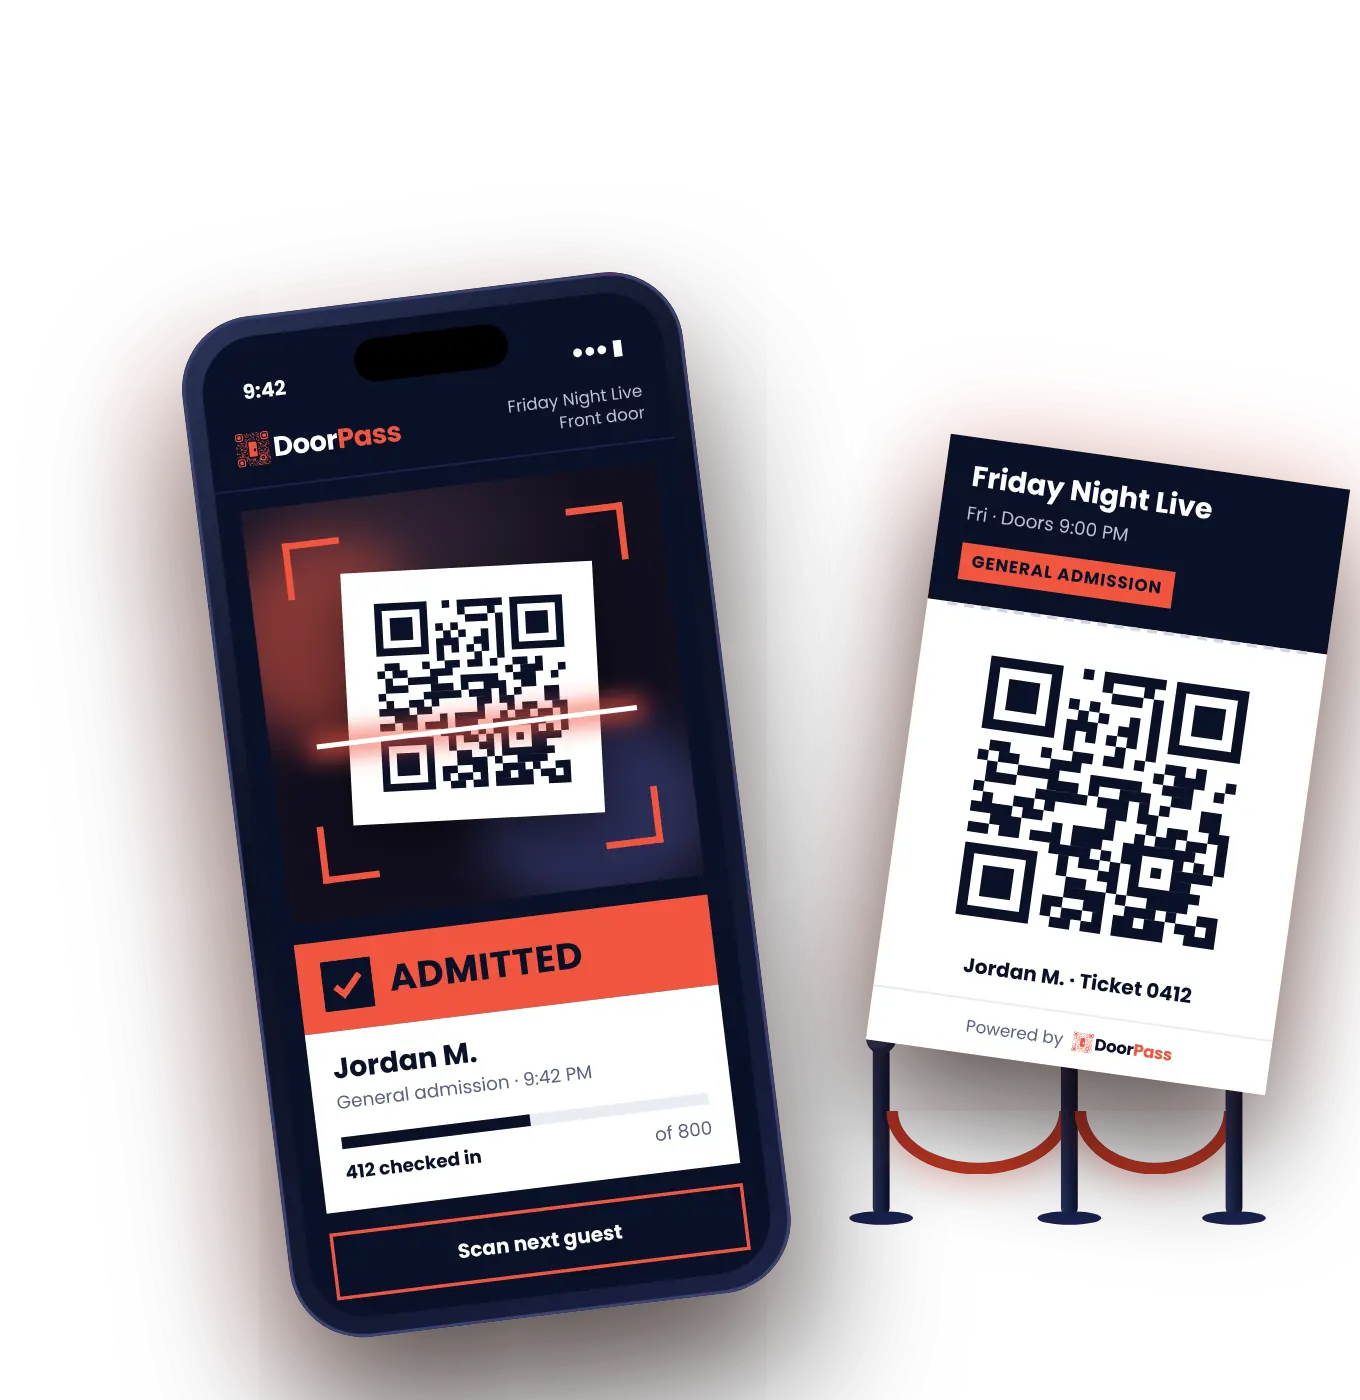
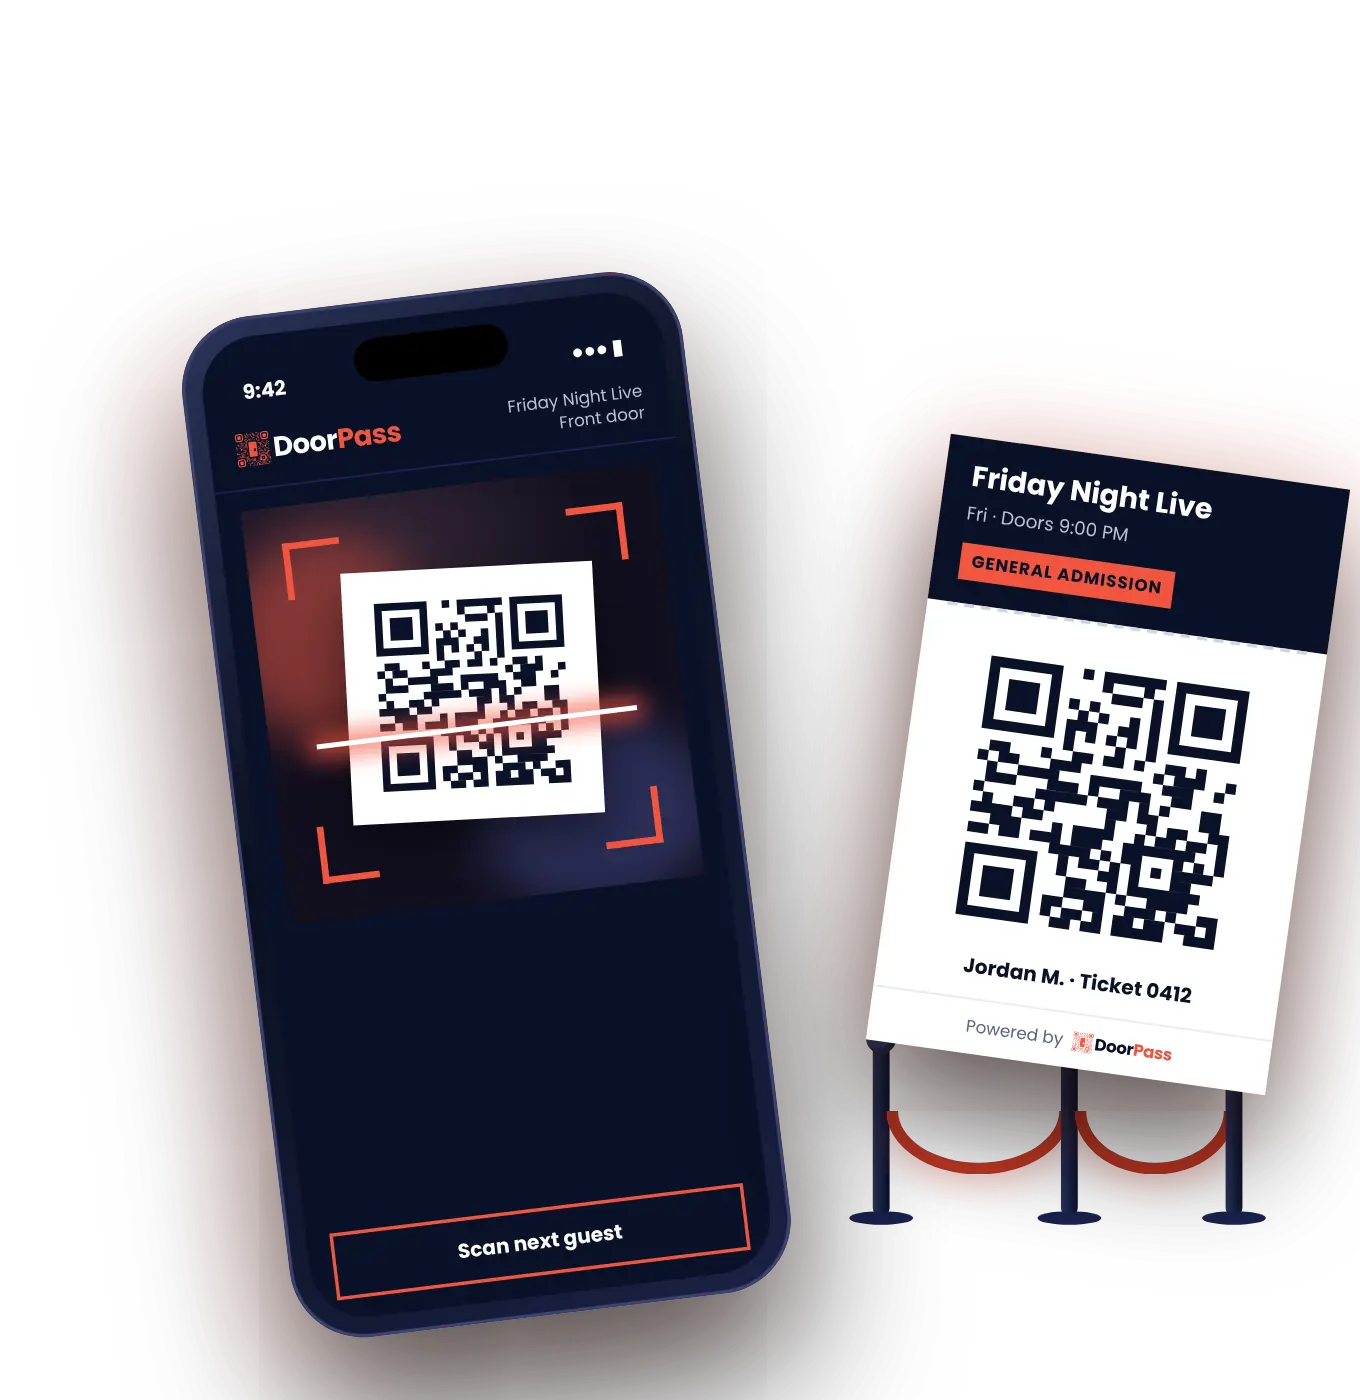
Hero: phone cycles Admitted / Check ID / Denied (#4)
- Scan result is now a live layer over the phone (removed from the
  front image), drawn in scene pixels so it lines up at any size
- Green Admitted, yellow Check ID, red Denied with check, ! and x icons:
  the DoorPass scanner's own status colors, short pop on each change
- Reduced motion shows Admitted only
- Brand test: scanner status colors declared

Claude-Session: https://claude.ai/code/session_01M7Asd6NsJf8wV6D7F685uX

Changed region(s): [[0.2162, 0.6143, 0.5559, 0.8907]]

diff --git a/public/css/styles.css b/public/css/styles.css
@@ -152,7 +152,29 @@ ul, ol { margin: 0; padding: 0; list-style: none; }
 @keyframes jump { 0% { transform: translateY(2px); animation-timing-function: cubic-bezier(.15, .6, .4, 1); } 42% { transform: translateY(-15px); animation-timing-function: cubic-bezier(.6, 0, .85, .4); } 84% { transform: translateY(2px); animation-timing-function: ease-out; } 92% { transform: translateY(3px); } 100% { transform: translateY(2px); } }
 @keyframes nod { from { transform: rotate(-4deg); } to { transform: rotate(6deg); } }
 @keyframes led { from { opacity: 1; } to { opacity: .3; } }
-@media (prefers-reduced-motion: reduce) { .fx { display: none; } .venue * { animation: none !important; } }
+/* Live scan result on the hero phone: Admitted (green), Check ID (yellow), Denied (red), the DoorPass scanner's own
+   status colors, one every 3.5 s. Laid out in scene pixels (--u = 1 px of the 1440 x 800 scene). */
+.scan-ui { container-type: inline-size; }
+.su-art { --u: .069444cqw; position: absolute; left: 0; top: 0; width: calc(1440 * var(--u)); height: calc(800 * var(--u)); transform: scale(.84); transform-origin: calc(1440 * var(--u)) calc(496 * var(--u)); }
+.su-phone { position: absolute; left: calc(770 * var(--u)); top: calc(150 * var(--u)); width: calc(300 * var(--u)); height: calc(612 * var(--u)); transform: rotate(-7deg); }
+.su-screen { position: absolute; left: calc(12 * var(--u)); top: calc(12 * var(--u)); width: calc(276 * var(--u)); height: calc(588 * var(--u)); }
+.su-state { position: absolute; left: calc(14 * var(--u)); top: calc(363 * var(--u)); width: calc(248 * var(--u)); opacity: 0; animation: su-cycle 10.5s infinite; }
+.su-check { animation-delay: 3.5s; } .su-deny { animation-delay: 7s; }
+.su-band { display: flex; align-items: center; gap: calc(10 * var(--u)); height: calc(54 * var(--u)); padding: 0 calc(14 * var(--u)); color: var(--white); }
+.su-ok .su-band { background: #16A34A; } .su-check .su-band { background: #F59E0B; color: var(--navy); } .su-deny .su-band { background: #DC2626; }
+.su-icon { display: grid; place-items: center; width: calc(30 * var(--u)); height: calc(30 * var(--u)); background: var(--navy); }
+.su-icon i { font: 700 calc(19 * var(--u))/1 var(--font); font-style: normal; color: var(--white); }
+.su-band b { font: 700 calc(22 * var(--u))/1 var(--font); letter-spacing: .02em; }
+.su-guest { height: calc(107 * var(--u)); padding: calc(12 * var(--u)) calc(14 * var(--u)); background: var(--white); color: var(--navy); }
+.su-guest p { margin: 0; }
+.su-nm { font: 700 calc(17 * var(--u))/1.2 var(--font); white-space: nowrap; overflow: hidden; text-overflow: ellipsis; }
+.su-mt { font: 400 calc(11 * var(--u))/1.35 var(--font); color: var(--muted); margin-top: calc(2 * var(--u)) !important; white-space: nowrap; overflow: hidden; text-overflow: ellipsis; }
+.su-bar { height: calc(7 * var(--u)); margin-top: calc(10 * var(--u)); background: var(--tint); }
+.su-bar i { display: block; width: 51.5%; height: 100%; background: var(--navy); }
+.su-cnt { display: flex; justify-content: space-between; margin-top: calc(6 * var(--u)) !important; font: 700 calc(11 * var(--u))/1.2 var(--font); }
+.su-cnt span { font-weight: 400; color: var(--muted); }
+@keyframes su-cycle { 0% { opacity: 0; transform: scale(.96); } 3% { opacity: 1; transform: scale(1.03); } 6%, 30.5% { opacity: 1; transform: scale(1); } 33.3%, 100% { opacity: 0; transform: scale(1); } }
+@media (prefers-reduced-motion: reduce) { .fx { display: none; } .venue * { animation: none !important; } .su-state { animation: none; } .su-ok { opacity: 1; } }
 @media (prefers-reduced-motion: reduce) { html { scroll-behavior: auto; } }
 
 /* Sections */

diff --git a/public/index.html b/public/index.html
@@ -214,8 +214,9 @@
 </svg></div></div>
       <picture class="layer">
         <source media="(min-width: 60rem)" srcset="/assets/hero/front-1440.webp 1440w, /assets/hero/front-2880.webp 2880w" sizes="100vw" width="2880" height="1600">
-        <img src="/assets/hero/front-m-680.webp" srcset="/assets/hero/front-m-680.webp 680w, /assets/hero/front-m-1360.webp 1360w" sizes="(min-width: 60rem) 100vw, 92vw" width="1360" height="1400" fetchpriority="high" decoding="async" alt="A door staff phone running the DoorPass scanner shows Admitted for Jordan M., General admission at 9:42 PM, 412 of 800 checked in, next to the guest's emailed QR ticket and a velvet rope, while the crowd dances inside">
+        <img src="/assets/hero/front-m-680.webp" srcset="/assets/hero/front-m-680.webp 680w, /assets/hero/front-m-1360.webp 1360w" sizes="(min-width: 60rem) 100vw, 92vw" width="1360" height="1400" fetchpriority="high" decoding="async" alt="A door staff phone running the DoorPass scanner, cycling through Admitted, Check ID and Denied results, 412 of 800 checked in, next to the guest's emailed QR ticket and a velvet rope, while the crowd dances inside">
       </picture>
+      <div class="scene-box scan-ui" aria-hidden="true"><div class="su-art"><div class="su-phone"><div class="su-screen"><div class="su-state su-ok"><div class="su-band"><span class="su-icon"><i>&#10003;</i></span><b>ADMITTED</b></div><div class="su-guest"><p class="su-nm">Jordan M.</p><p class="su-mt">General admission · 9:42 PM</p><div class="su-bar"><i></i></div><p class="su-cnt"><b>412 checked in</b><span>of 800</span></p></div></div><div class="su-state su-check"><div class="su-band"><span class="su-icon"><i>!</i></span><b>CHECK ID</b></div><div class="su-guest"><p class="su-nm">Sam T.</p><p class="su-mt">Already checked in at 9:31 PM. Ask for ID.</p><div class="su-bar"><i></i></div><p class="su-cnt"><b>412 checked in</b><span>of 800</span></p></div></div><div class="su-state su-deny"><div class="su-band"><span class="su-icon"><i>&#10005;</i></span><b>DENIED</b></div><div class="su-guest"><p class="su-nm">Ticket not recognised</p><p class="su-mt">Not valid for Friday Night Live</p><div class="su-bar"><i></i></div><p class="su-cnt"><b>412 checked in</b><span>of 800</span></p></div></div></div></div></div></div>
       <div class="fx" aria-hidden="true"><div class="fx-door"><i></i><i></i><i></i></div><b class="fx-sign"></b><b class="fx-spill"></b><b class="fx-t"></b><b class="fx-t"></b><b class="fx-t"></b><b class="fx-t"></b><b class="fx-t"></b><b class="fx-t"></b><b class="fx-t"></b><b class="fx-t"></b><b class="fx-t"></b><b class="fx-t"></b><b class="fx-t"></b><b class="fx-t"></b><b class="fx-t"></b><b class="fx-t"></b></div>
     </div>
   </div>

diff --git a/test/brand.test.js b/test/brand.test.js
@@ -3,7 +3,8 @@ const assert = require('node:assert');
 const { readSite } = require('./helpers');
 
 const css = readSite('css/styles.css');
-const ALLOWED = ['#F2553F', '#0A1128', '#FFFFFF', '#131C3A', '#1D2750', '#E9ECF4', '#5A6382', '#B9C0D8'];
+// Brand colors and tints, plus the DoorPass scanner's own status colors (Admitted, Check ID, Denied) used on the hero phone
+const ALLOWED = ['#F2553F', '#0A1128', '#FFFFFF', '#131C3A', '#1D2750', '#E9ECF4', '#5A6382', '#B9C0D8', '#16A34A', '#F59E0B', '#DC2626'];
 
 test('site uses only brand colors and declared tints', () => {
   const found = [...new Set((css.match(/#[0-9a-fA-F]{6}\b|#[0-9a-fA-F]{3}\b/g) || []).map((c) => c.toUpperCase()))];
